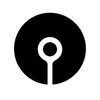
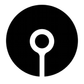
fix: make beta 2 visible on first launch

Changed region(s): [[0.0714, 0.0476, 0.9286, 0.9286]]

diff --git a/Sources/Radio9128App.swift b/Sources/Radio9128App.swift
@@ -19,11 +19,30 @@ struct Radio9128App: App {
 
 @MainActor
 final class AppDelegate: NSObject, NSApplicationDelegate {
+    typealias PlayerPresenter = (NSPopover, NSStatusBarButton) -> Bool
+
+    private static let firstLaunchPlayerKey = "com.tobybarnes.radio9128.hasShownFirstLaunchPlayer"
+
     let model = AppModel()
 
     private var statusItem: NSStatusItem?
     private let popover = NSPopover()
+    private let playerPresenter: PlayerPresenter
     private var cancellables = Set<AnyCancellable>()
+
+    override init() {
+        playerPresenter = { popover, button in
+            popover.show(relativeTo: button.bounds, of: button, preferredEdge: .minY)
+            NSApplication.shared.activate(ignoringOtherApps: true)
+            return popover.isShown
+        }
+        super.init()
+    }
+
+    init(playerPresenter: @escaping PlayerPresenter) {
+        self.playerPresenter = playerPresenter
+        super.init()
+    }
 
     func applicationDidFinishLaunching(_ notification: Notification) {
         NSApplication.shared.setActivationPolicy(.accessory)
@@ -42,6 +61,9 @@ final class AppDelegate: NSObject, NSApplicationDelegate {
             image.isTemplate = true
             button.image = image
             button.imagePosition = .imageOnly
+            button.contentTintColor = nil
+            button.alphaValue = 1
+            button.isHidden = false
             button.toolTip = "9128 live radio"
             button.target = self
             button.action = #selector(togglePopover)
@@ -69,6 +91,7 @@ final class AppDelegate: NSObject, NSApplicationDelegate {
             .store(in: &cancellables)
 
         Task { await model.lastFM.validateSession() }
+        presentPlayerOnFirstLaunch()
     }
 
     @objc private func togglePopover() {
@@ -76,9 +99,24 @@ final class AppDelegate: NSObject, NSApplicationDelegate {
         if popover.isShown {
             popover.performClose(nil)
         } else {
-            popover.show(relativeTo: button.bounds, of: button, preferredEdge: .minY)
-            NSApplication.shared.activate(ignoringOtherApps: true)
+            showPopover(relativeTo: button)
         }
+    }
+
+    private func presentPlayerOnFirstLaunch() {
+        guard !UserDefaults.standard.bool(forKey: Self.firstLaunchPlayerKey) else { return }
+
+        DispatchQueue.main.async { [weak self] in
+            guard let self, let button = self.statusItem?.button else { return }
+            if self.showPopover(relativeTo: button) {
+                UserDefaults.standard.set(true, forKey: Self.firstLaunchPlayerKey)
+            }
+        }
+    }
+
+    @discardableResult
+    private func showPopover(relativeTo button: NSStatusBarButton) -> Bool {
+        playerPresenter(popover, button)
     }
 }
 

diff --git a/Tests/BrandAssetsTests.swift b/Tests/BrandAssetsTests.swift
@@ -5,4 +5,32 @@ final class BrandAssetsTests: XCTestCase {
     func testMenuBarIconUsesNativeTemplateRendering() {
         XCTAssertTrue(BrandAssets.menuBarIcon.isTemplate)
     }
+
+    func testMenuBarIconFillsStatusItemCanvas() throws {
+        let representation = try XCTUnwrap(
+            BrandAssets.menuBarIcon.tiffRepresentation.flatMap(NSBitmapImageRep.init(data:))
+        )
+        var minimumX = representation.pixelsWide
+        var minimumY = representation.pixelsHigh
+        var maximumX = -1
+        var maximumY = -1
+
+        for y in 0..<representation.pixelsHigh {
+            for x in 0..<representation.pixelsWide {
+                guard representation.colorAt(x: x, y: y)?.alphaComponent ?? 0 > 0.01 else {
+                    continue
+                }
+                minimumX = min(minimumX, x)
+                minimumY = min(minimumY, y)
+                maximumX = max(maximumX, x)
+                maximumY = max(maximumY, y)
+            }
+        }
+
+        let visibleWidth = Double(maximumX - minimumX + 1) / Double(representation.pixelsWide)
+        let visibleHeight = Double(maximumY - minimumY + 1) / Double(representation.pixelsHigh)
+
+        XCTAssertGreaterThanOrEqual(visibleWidth, 0.85)
+        XCTAssertGreaterThanOrEqual(visibleHeight, 0.85)
+    }
 }

diff --git a/Tests/AppLaunchTests.swift b/Tests/AppLaunchTests.swift
@@ -1,0 +1,31 @@
+import AppKit
+import XCTest
+@testable import Radio9128
+
+@MainActor
+final class AppLaunchTests: XCTestCase {
+    private let firstLaunchKey = "com.tobybarnes.radio9128.hasShownFirstLaunchPlayer"
+
+    func testFirstLaunchShowsPlayerPopover() async throws {
+        UserDefaults.standard.removeObject(forKey: firstLaunchKey)
+        defer { UserDefaults.standard.removeObject(forKey: firstLaunchKey) }
+
+        var presentationCount = 0
+        let delegate = AppDelegate { _, _ in
+            presentationCount += 1
+            return true
+        }
+        delegate.applicationDidFinishLaunching(
+            Notification(name: NSApplication.didFinishLaunchingNotification)
+        )
+
+        await withCheckedContinuation { continuation in
+            DispatchQueue.main.async {
+                continuation.resume()
+            }
+        }
+
+        XCTAssertEqual(presentationCount, 1)
+        XCTAssertTrue(UserDefaults.standard.bool(forKey: firstLaunchKey))
+    }
+}

diff --git a/Sources/LastFMManager.swift b/Sources/LastFMManager.swift
@@ -21,7 +21,7 @@ final class LastFMManager: ObservableObject {
     }
 
     private let configuration: LastFMConfiguration?
-    private let store = KeychainStore(service: "com.tobybarnes.radio9128")
+    private let store = KeychainStore(service: "com.tobybarnes.radio9128.beta2")
     private let client = LastFMClient()
     private var pendingToken: String?
     private var sessionKey: String?
